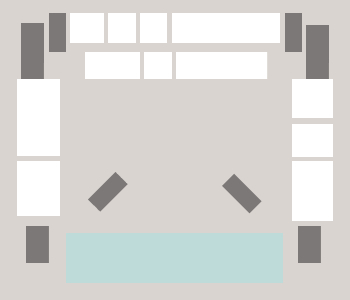
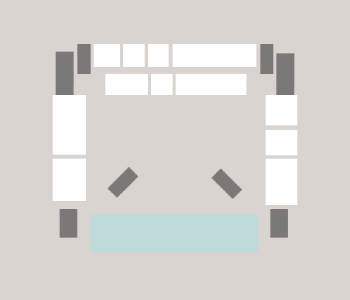
小地圖mask更新

diff --git a/room.html b/room.html
@@ -100,6 +100,7 @@
                         學校準備了各式專業軟體和應用程式，豐富的資源讓學習更無阻力。電腦教室提供理論知識和實際操作同時進行的學習方式，幫助學生深入理解各專業所需的數位技術。
                     </div>
                     <div class="mini-map show">
+                        <img src="./img/mini-map-mask.png" alt="" class="mini-map-mask w-100">
                         <img src="./img/723.jpg" alt="" class="w-100 ">
                     </div>
                     <dialog id="infoModal">
@@ -132,6 +133,7 @@
                         教室配置了投影機和資訊講台，方便老師進行課堂講解、展示教材和多媒體內容，支援多樣化的教學方式，同時促進互動和學習。可確保教學順利進行，提供了一個適合學生學習和老師教學的空間。
                     </div>
                     <div class="mini-map show">
+                        <img src="./img/mini-map-mask.png" alt="" class="mini-map-mask w-100">
                         <img src="./img/722.jpg" alt="" class="w-100 ">
                     </div>
                     <dialog id="infoModal">
@@ -160,6 +162,7 @@
                         支援多媒體展示，有助於教師呈現教材，提供豐富的視聽體驗，促進學生間的互動和學習氛圍，適合大班授課，打造開放的學習環境。
                     </div>
                     <div class="mini-map show">
+                        <img src="./img/mini-map-mask.png" alt="" class="mini-map-mask w-100">
                         <img src="./img/721.jpg" alt="" class="w-100 ">
                     </div>
                     <dialog id="infoModal">
@@ -188,6 +191,7 @@
                         學生在這裡學習軟體開發、圖形設計、多媒體製作以及其他與電腦技術相關的領域。通過練習和實際應用，學生可以更深入地理解並掌握電腦相關技能。
                     </div>
                     <div class="mini-map show">
+                        <img src="./img/mini-map-mask.png" alt="" class="mini-map-mask w-100">
                         <img src="./img/717.jpg" alt="" class="w-100 ">
                     </div>
                     <dialog id="infoModal">
@@ -216,6 +220,7 @@
                         這裡教授電腦語言、軟體開發、資訊安全、程式應用等課程，能提供實際的操作機會和技術支持，讓學生有豐富的互動學習體驗，培養他們在數位世界中的技能和理解。
                     </div>
                     <div class="mini-map show">
+                        <img src="./img/mini-map-mask.png" alt="" class="mini-map-mask w-100">
                         <img src="./img/713.jpg" alt="" class="w-100 ">
                     </div>
                     <dialog id="infoModal">
@@ -244,6 +249,7 @@
                         投影機和資訊講台的設置能幫助老師講解課程，提升學習效果。讓展示多媒體教材、管理課堂互動變得更加輕鬆，便於教師進行示範並支持多種教學方式。
                     </div>
                     <div class="mini-map show">
+                        <img src="./img/mini-map-mask.png" alt="" class="mini-map-mask w-100">
                         <img src="./img/711.jpg" alt="" class="w-100 ">
                     </div>
                     <dialog id="infoModal">
@@ -272,6 +278,7 @@
                         人們可以分享他們的技巧、創作和想法，互相激發靈感。陶土教室可以舉辦陶藝展覽、工作坊和藝術活動，向公眾展示和分享他們的藝術形式。
                     </div>
                     <div class="mini-map show">
+                        <img src="./img/mini-map-mask.png" alt="" class="mini-map-mask w-100">
                         <img src="./img/709.jpg" alt="" class="w-100 ">
                     </div>
                     <dialog id="infoModal">
@@ -300,6 +307,7 @@
                         投影機支持多媒體展示，幫助教師傳達課程內容。提供良好的視覺和聽覺體驗，促進互動和學習。
                     </div>
                     <div class="mini-map show">
+                        <img src="./img/mini-map-mask.png" alt="" class="mini-map-mask w-100">
                         <img src="./img/707.jpg" alt="" class="w-100 ">
                     </div>
                     <dialog id="infoModal">
@@ -329,6 +337,7 @@
                         教室內擁有投影機設備和資訊講台，這能幫助老師講解課程並展示多媒體教材，提升學習效果。冷氣系統的設置能讓教室在炎熱的天氣中保持舒適，幫助學生集中精力學習。
                     </div>
                     <div class="mini-map show">
+                        <img src="./img/mini-map-mask.png" alt="" class="mini-map-mask w-100">
                         <img src="./img/706.jpg" alt="" class="w-100 ">
                     </div>
                     <dialog id="infoModal">
@@ -358,6 +367,7 @@
                         外部合作也是辦公室工作的一環，簽訂合約、與供應商進行溝通和協商，以及採購流程中的文件管理和記錄保留。他們也負責檢查和測試學校所用的設備、用品等，確保它們符合標準，並採取必要的品質改進措施。
                     </div>
                     <div class="mini-map show">
+                        <img src="./img/mini-map-mask.png" alt="" class="mini-map-mask w-100">
                         <img src="./img/720.jpg" alt="" class="w-100 ">
                     </div>
                     <dialog id="infoModal">
@@ -386,6 +396,7 @@
                         此外，教室設有會議桌和椅子，有助於團隊討論和合作，同時也能提供適合參與者互動和參與的環境，為小型團隊會議準備了理想的場所。
                     </div>
                     <div class="mini-map show">
+                        <img src="./img/mini-map-mask.png" alt="" class="mini-map-mask w-100">
                         <img src="./img/718.jpg" alt="" class="w-100 ">
                     </div>
                     <dialog id="infoModal">
@@ -414,6 +425,7 @@
                         這裡營造了較為親密的氛圍，有助於小班授課，提供更多互動和個人化學習機會，是討論與學術聚會的好場所。
                     </div>
                     <div class="mini-map show">
+                        <img src="./img/mini-map-mask.png" alt="" class="mini-map-mask w-100">
                         <img src="./img/708.jpg" alt="" class="w-100 ">
                     </div>
                     <dialog id="infoModal">
@@ -442,6 +454,7 @@
                         這裡包括設備齊全的閱讀區域、討論區、電腦和影印設備。此外，辦公室能舉辦學術研討會、工作坊和專題講座，提供給學生一個共享知識和經驗的平台。
                     </div>
                     <div class="mini-map show">
+                        <img src="./img/mini-map-mask.png" alt="" class="mini-map-mask w-100">
                         <img src="./img/701.jpg" alt="" class="w-100 ">
                     </div>
                     <dialog id="infoModal">
@@ -553,8 +566,6 @@
                 rooms.style.left = '-' + (leftMove - (75.7 * 3)) + 'px'
             }
         };
-
-
     </script>
     <script type="module">
         import * as THREE from 'three';

diff --git a/css/room.css b/css/room.css
@@ -427,26 +427,36 @@ main {
 .mini-map,
 .mini-map-2 {
     border-radius: 8px;
-    width: 100%;
-    background-size: contain;
-    background-repeat: no-repeat;
-    padding: 25px;
     margin-top: 50px;
-    background-color: #D9D4CF;
     cursor: pointer;
-    transition: 0.3s;
+    transition: 0.2s;
+    position: relative;
+    overflow: hidden;
+}
+
+.mini-map:hover {
+    transition: 0.2s;
+}
+
+.mini-map-mask {
+    position: absolute;
+    transition: 0.2s;
+}
+
+.mini-map-mask:hover {
+    opacity: 0;
+    transition: 0.2s;
 }
 
 .mini-map-2 {
     margin: 0;
-    padding: 10px;
 }
 
-.mini-map:hover,
+/* .mini-map:hover,
 .mini-map-2:hover {
     opacity: 0.7;
     transition: 0.3s;
-}
+} */
 
 .intro-box {
     margin-top: 30px;
